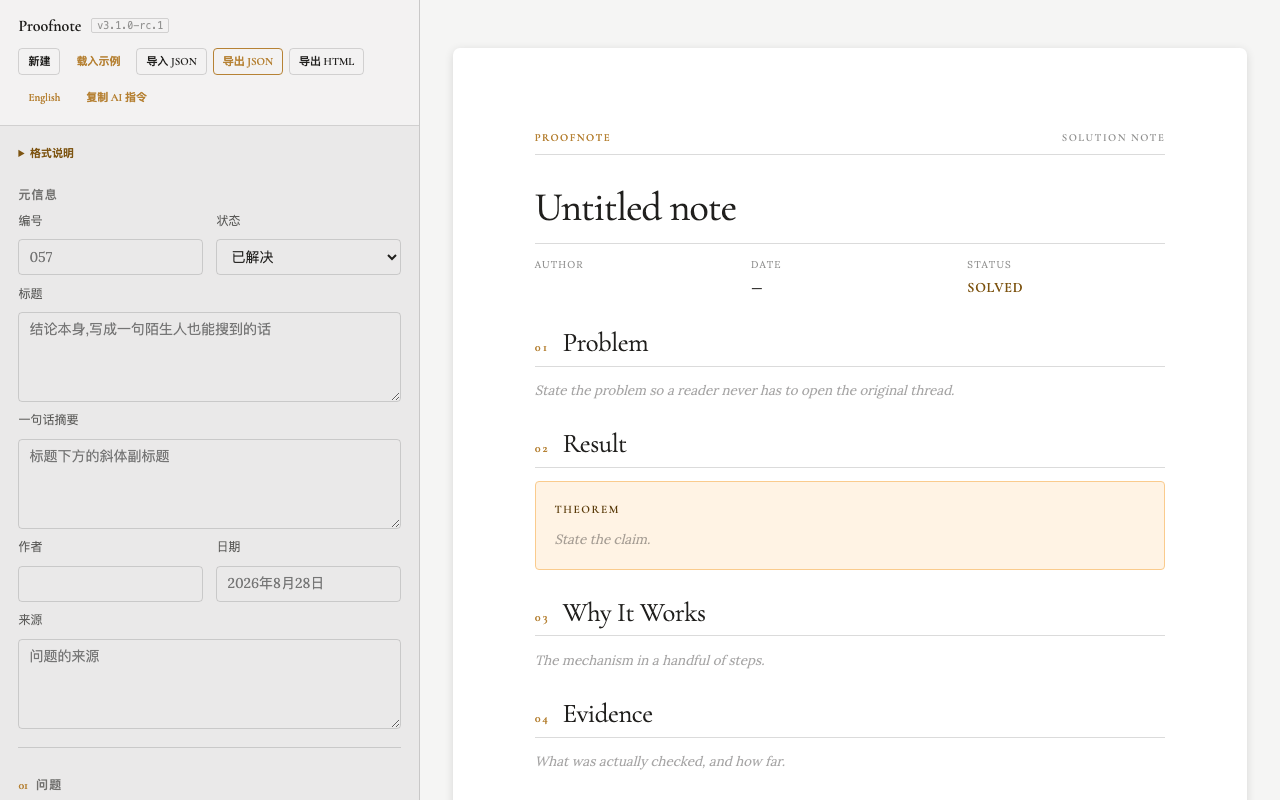
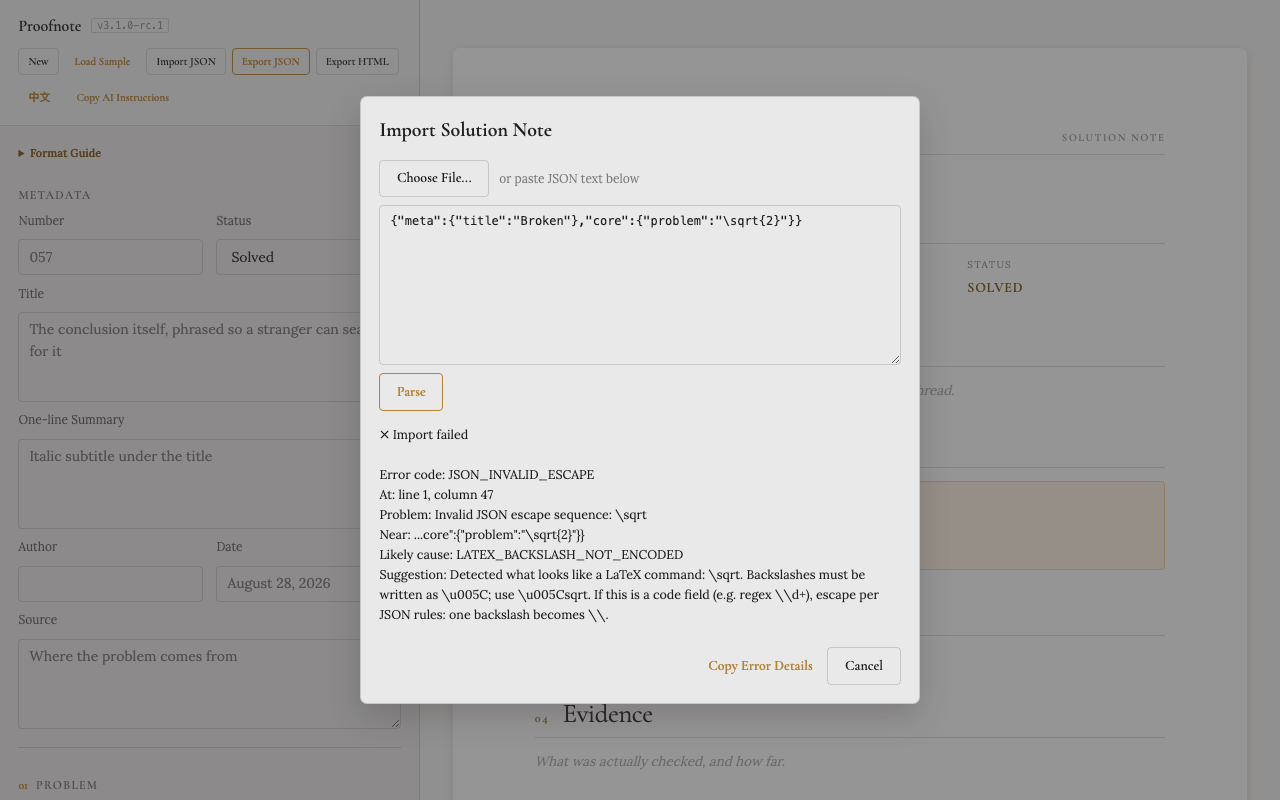
Add ?diag deep link for the diagnostics showcase; replace error-diagnostics.png with the real dialog

diff --git a/index.html b/index.html
@@ -2797,6 +2797,13 @@ ${restHtml}
   // Deep link: index.html?sample opens straight into the showcase note
   // (used by the "Try Proofnote" link and the README hero screenshot).
   if (/[?&]sample\b/.test(location.search)) loadSampleNote();
+  // index.html?diag opens the import dialog pre-filled with a broken note, so
+  // the diagnostics UI can be shown/documented without manual interaction.
+  if (/[?&]diag\b/.test(location.search)) {
+    openImportDialog();
+    document.getElementById("importPasteText").value = '{"meta":{"title":"Broken"},"core":{"problem":"\\sqrt{2}"}}';
+    processImportedText(document.getElementById("importPasteText").value);
+  }
   initBoundFields(document);
   renderWhyList();
   buildBlockEditor(document.getElementById(blockEditorId("core.evidence")), "core.evidence");

diff --git a/README.md b/README.md
@@ -13,7 +13,7 @@ with precise diagnostics, and export beautiful standalone HTML — entirely offl
 [Try Proofnote](https://donghaoxuan13818851792-code.github.io/proofnote/?sample) · [AI authoring guide](docs/ai-authoring.md) · [Format schema](schema/solution-note-1.0.schema.json) · [Examples](examples/)
 
 <p align="center">
-  <img src="docs/assets/proofnote-hero.png" width="900" alt="Proofnote — the Gaussian integer showcase note, rendered">
+  <img src="docs/assets/proofnote-hero.png" width="850" alt="Proofnote — the Gaussian integer showcase note, rendered">
 </p>
 
 ## It tells you where, why, and how to fix it
